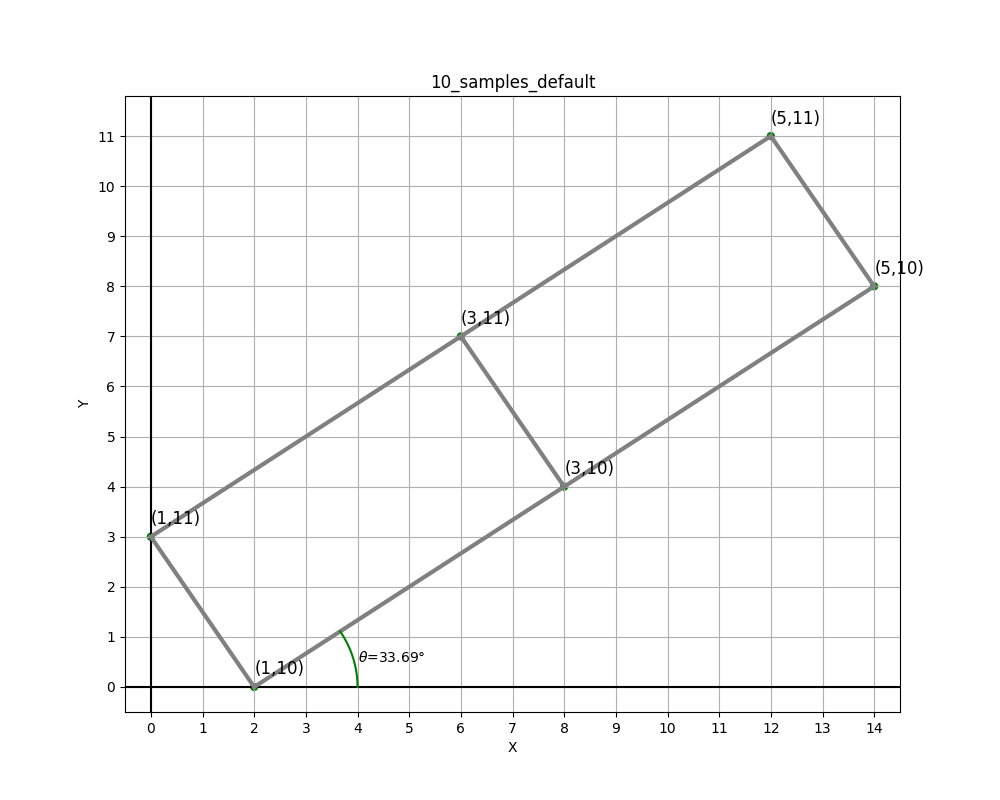
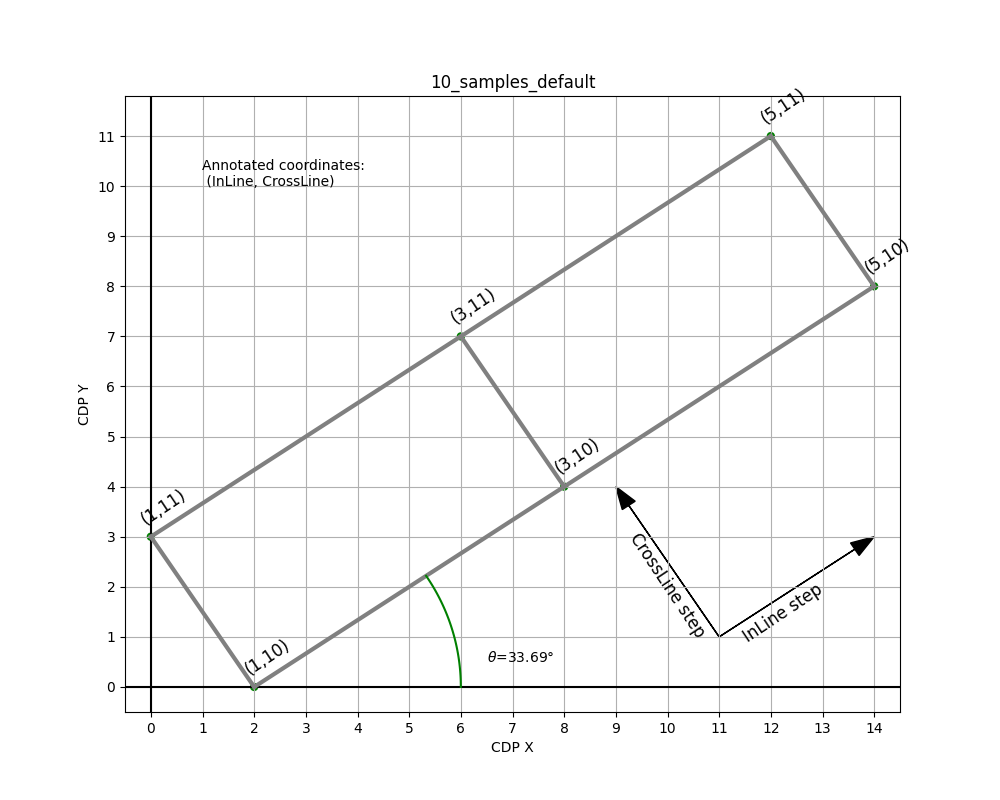
Update 10_samples figure with origin and axis names

diff --git a/testdata/10_samples/generate_plot.py b/testdata/10_samples/generate_plot.py
@@ -1,61 +1,133 @@
 import matplotlib.pyplot as plt
 import numpy as np
 
-vertices = [
-    [2, 0, "(1,10)"],
-    [0, 3, "(1,11)"],
-    [8, 4, "(3,10)"],
-    [6, 7, "(3,11)"],
-    [14, 8, "(5,10)"],
-    [12, 11, "(5,11)"]
-]
-
-edges = [
-    [vertices[0], vertices[2]],
-    [vertices[2], vertices[4]],
-    [vertices[1], vertices[3]],
-    [vertices[3], vertices[5]],
-    [vertices[0], vertices[1]],
-    [vertices[2], vertices[3]],
-    [vertices[4], vertices[5]],
-]
-
-fig, ax = plt.subplots(1, 1, figsize=(10, 8))
-
-# Plot axis
-ax.plot([-1, 15], [0, 0], color='k', linewidth=1.5)
-ax.plot([0, 0], [-1, 12], color='k', linewidth=1.5)
+origin = np.array([19, -32])
+il_step = np.array([3, 2])
+xl_step = np.array([-2, 3])
 
 
-# Plot edges
-for e in edges:
-    e_s = e[0]
-    e_e = e[1]
-    ax.plot([e_s[0], e_e[0]], [e_s[1], e_e[1]], color='grey', linewidth=3.0)
+def draw_axis_and_tics(axis):
 
-# Plot vertices
-for v in vertices:
-    ax.scatter(v[0], v[1], c="g",
-               label=v[2],
-               alpha=1.0, edgecolors='none')
-    ax.text(v[0] + 0.0, v[1] + 0.25, v[2], size="large")
+    # Plot axis
+    axis.plot([-3, 22], [0, 0], color='k', linewidth=1.5)
+    axis.plot([0, 0], [-33, 20], color='k', linewidth=1.5)
 
-x_tics = np.arange(-1, 15, 1)
-y_tics = np.arange(-1, 12, 1)
-plt.xticks(x_tics)
-plt.yticks(y_tics)
-plt.xlim([-0.5, 14.5])
-plt.ylim([-0.5, 11.8])
-ax.grid(True)
+    # Plot tics
+    x_tics = np.arange(-3, 25, 1)
+    y_tics = np.arange(-33, 12, 1)
+    axis.set_xticks(x_tics)
+    axis.set_yticks(y_tics)
+    axis.set_xlim([-0.5, 14.5])
+    axis.set_ylim([-0.5, 11.8])
+    axis.grid(True)
 
-# draw a circle
-angles = np.linspace(0 * np.pi, 2 * np.pi / 360 * 33.69, 100)
-xs = np.cos(angles) * 2 + 2
-ys = np.sin(angles) * 2
-plt.plot(xs, ys, color='green', linewidth=1.5)
-plt.text(4, 0.5, r'$\theta$=33.69°')
-plt.title("10_samples_default")
-plt.xlabel("X")
-plt.ylabel("Y")
-plt.savefig("10_samples_default.png")
-plt.show()
+
+def draw_graph(axis):
+
+    vertices = [
+        [2, 0, "(1,10)"],
+        [0, 3, "(1,11)"],
+        [8, 4, "(3,10)"],
+        [6, 7, "(3,11)"],
+        [14, 8, "(5,10)"],
+        [12, 11, "(5,11)"]
+    ]
+
+    edges = [
+        [vertices[0], vertices[2]],
+        [vertices[2], vertices[4]],
+        [vertices[1], vertices[3]],
+        [vertices[3], vertices[5]],
+        [vertices[0], vertices[1]],
+        [vertices[2], vertices[3]],
+        [vertices[4], vertices[5]],
+    ]
+
+    # Plot edges
+    for e in edges:
+        e_s = e[0]
+        e_e = e[1]
+        axis.plot([e_s[0], e_e[0]], [e_s[1], e_e[1]],
+                  color='grey', linewidth=3.0)
+
+    # Plot vertices
+    for v in vertices:
+        axis.scatter(v[0], v[1], c="g",
+                     label=v[2],
+                     alpha=1.0, edgecolors='none')
+        # axis.text(v[0] + 0.0, v[1] + 0.25, v[2], size="large", rotation=33.69)
+        axis.text(v[0] - 0.25, v[1] + 0.25, v[2], size="large", rotation=33.69)
+
+    axis.text(1, 10, "Annotated coordinates:\n (InLine, CrossLine)")
+
+    # Draw an arc representing the rotation
+    angles = np.linspace(0 * np.pi, 2 * np.pi / 360 * 33.69, 100)
+    xs = np.cos(angles) * 4 + 2
+    ys = np.sin(angles) * 4
+    axis.plot(xs, ys, color='green', linewidth=1.5)
+    axis.text(6.5, 0.5, r'$\theta$=33.69°')
+
+
+def draw_step_arrows(axis, x_pos, y_pos):
+
+    axis.arrow(x_pos, y_pos, il_step[0], il_step[1], color='black',
+               head_width=0.3, length_includes_head=True)
+    axis.arrow(x_pos, y_pos, xl_step[0], xl_step[1], color='black',
+               head_width=0.3, length_includes_head=True)
+    axis.text(x_pos - 1.8, y_pos, "CrossLine step",
+              size="large", rotation=33.69-90)
+    axis.text(x_pos + 0.4, y_pos-0.1, "InLine step",
+              size="large", rotation=33.69)
+
+
+def draw_origin_path(axis):
+    axis.text(-1, -1.3, r'Inline', rotation=33.69)
+    axis.text(7.76, -16.3, r'Crossline', rotation=33.69 - 90)
+    axis.text(19, -32.8, r'Origin', size="large")
+    axis.text(19.2, -32, r'(0, 0)', size="large")
+
+    x_pos = 14
+    y_pos = -13
+    axis.arrow(x_pos, y_pos, il_step[0], il_step[1], color='black',
+               head_width=0.3, length_includes_head=True)
+    axis.arrow(x_pos, y_pos, xl_step[0], xl_step[1], color='black',
+               head_width=0.3, length_includes_head=True)
+    axis.text(x_pos - 3.0, y_pos-1.0, "CrossLine step", rotation=33.69-90)
+    axis.text(x_pos + 0.4, y_pos-0.5, "InLine step", rotation=33.69)
+
+    for i in range(11):
+        pos = origin + xl_step*i
+        axis.scatter(pos[0], pos[1], color='grey', s=15)
+
+    for i in range(10):
+        pos = origin + xl_step*i
+        axis.arrow(pos[0], pos[1], xl_step[0], xl_step[1], color='grey',
+                   head_width=0.3, length_includes_head=True)
+
+    axis.arrow(-1, -2, il_step[0], il_step[1], color='grey',
+               head_width=0.3, length_includes_head=True)
+
+
+if __name__ == "__main__":
+
+    fig_s, ax_s = plt.subplots(1, 1, figsize=(10, 8))
+    draw_axis_and_tics(ax_s)
+    draw_graph(ax_s)
+    draw_step_arrows(ax_s, 11, 1.0)
+    ax_s.set_title("10_samples_default")
+    ax_s.set_xlabel("CDP X")
+    ax_s.set_ylabel("CDP Y")
+
+    plt.savefig("10_samples_default.png")
+
+    fig_o, ax_o = plt.subplots(1, 1, figsize=(5*1.5, 9*1.5))
+    draw_axis_and_tics(ax_o)
+    draw_graph(ax_o)
+    draw_origin_path(ax_o)
+
+    ax_o.set_xlim([-3, 22])
+    ax_o.set_ylim([-33, 12])
+    ax_o.set_title("10_samples_default")
+    ax_o.set_xlabel("CDP X")
+    ax_o.set_ylabel("CDP Y")
+    plt.savefig("10_samples_default_origin.png")
